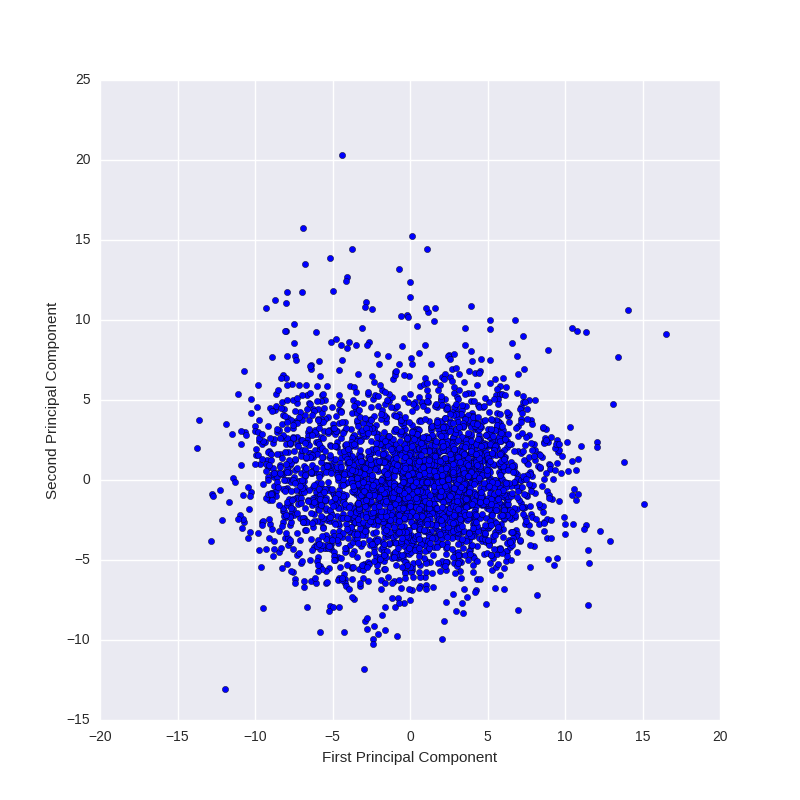
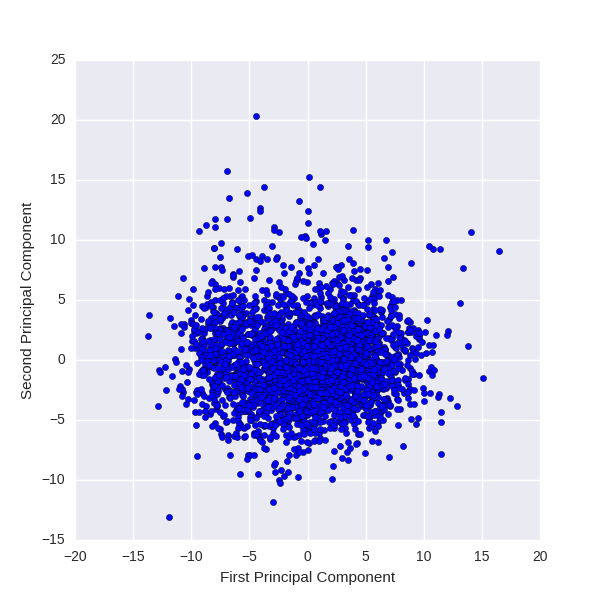
change pca image size

diff --git a/project_1/pca_on_dense_features.py b/project_1/pca_on_dense_features.py
@@ -41,7 +41,7 @@ pca = PCA()
 pca.fit(X)
 n = pca.n_components_
 
-plt.figure(figsize=(8,8))
+plt.figure(figsize=(6,6))
 plt.plot(
     pandas.np.arange(n)+1,
     pandas.np.cumsum(pca.explained_variance_ratio_),
@@ -55,7 +55,7 @@ plt.savefig('pca_components_vs_total_variance.png')
 
 
 Xpc = pca.transform(X)
-plt.figure(figsize=(8,8))
+plt.figure(figsize=(6,6))
 plt.scatter(Xpc[:,0], Xpc[:,1])
 plt.xlabel('First Principal Component')
 plt.ylabel('Second Principal Component')
